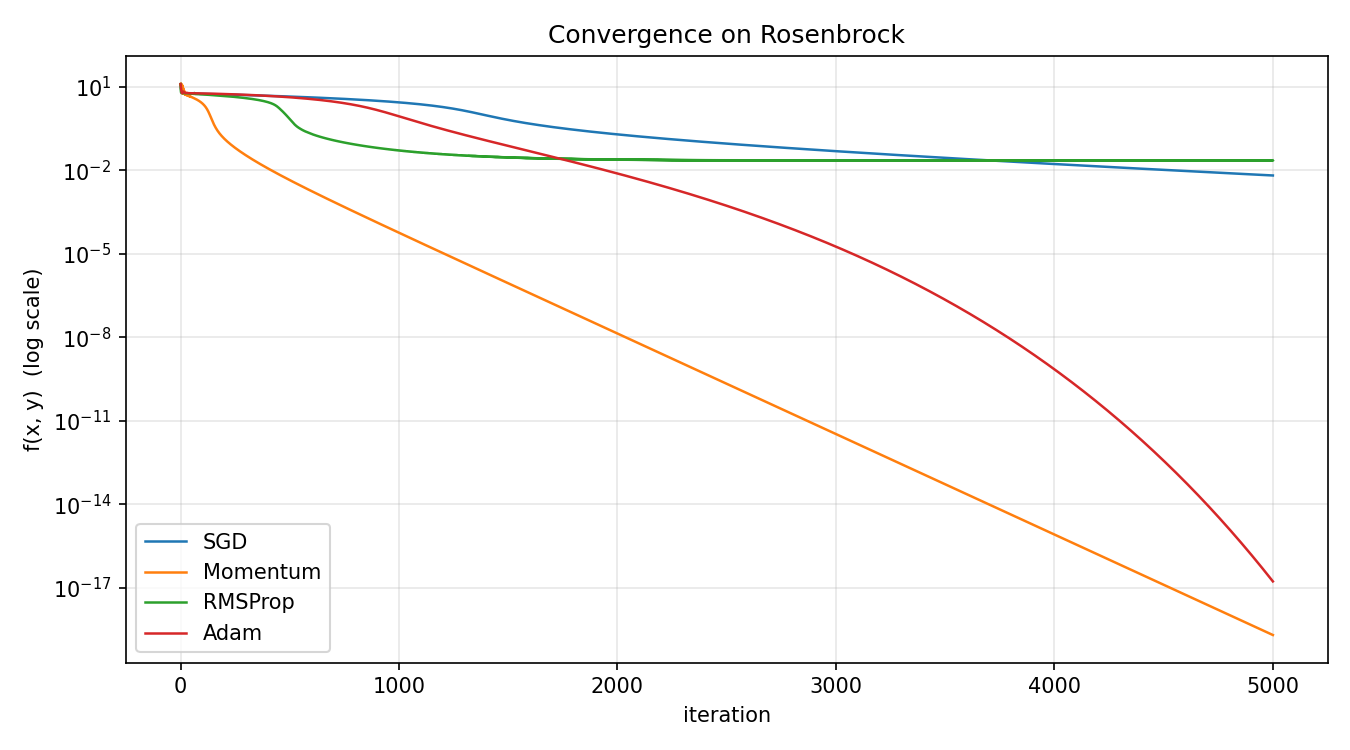
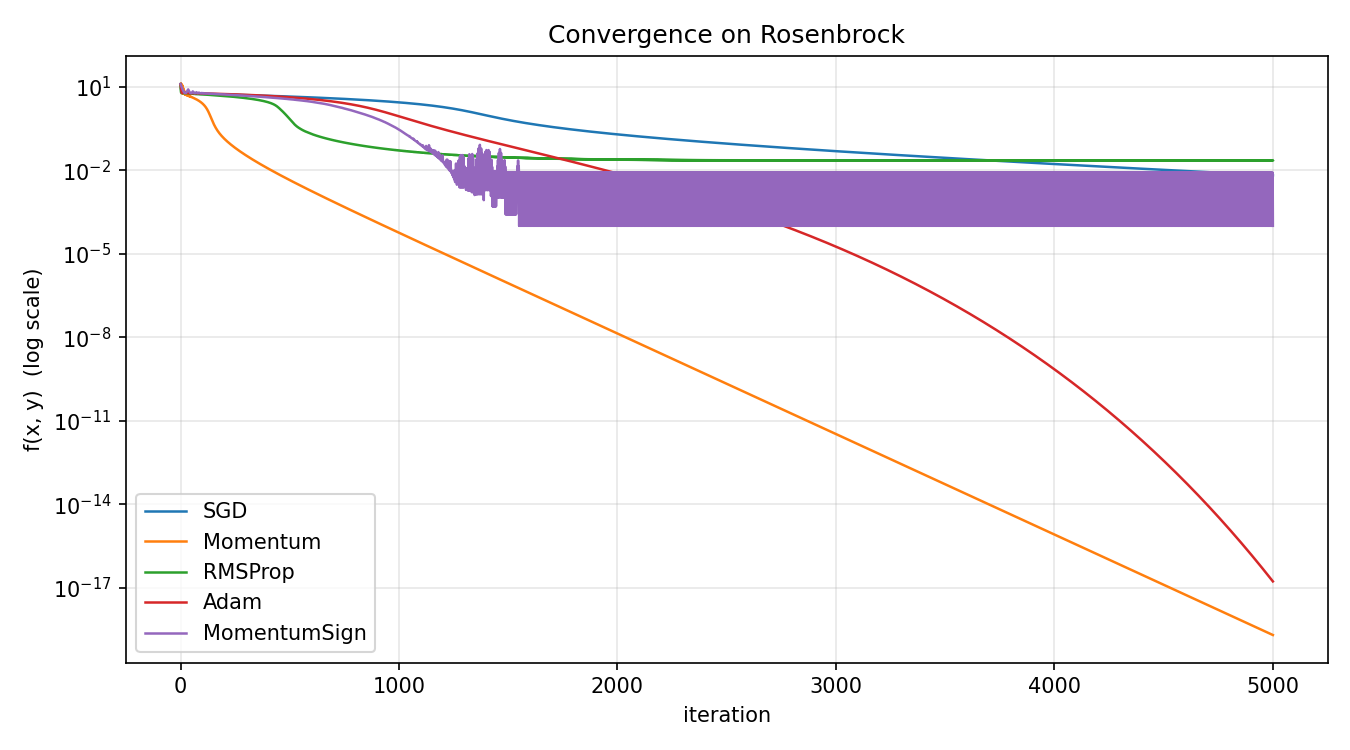
Add sign based optimizer

diff --git a/01_optimizers/reference_optimizers.py b/01_optimizers/reference_optimizers.py
@@ -103,3 +103,34 @@ class Adam(Optimizer):
         m_hat = self.m / (1 - self.beta1**self.t)
         v_hat = self.v / (1 - self.beta2**self.t)
         return m_hat / (np.sqrt(v_hat) + self.eps)
+
+
+class MomentumSign(Optimizer):
+    """Soft-sign of an EMA of gradients (per-coordinate "adjusted direction").
+
+    Direction is `m / (|m| + eps)`, applied componentwise. For |m| >> eps this
+    is sign(m), so far from a minimum the update is axis-aligned with bounded
+    step like Lion. As gradients vanish the denominator stops being dominated
+    by |m| and the update collapses to `m / eps` — proportional to m, which
+    drives step size to zero alongside the gradient. That's the same throttle
+    Adam gets from `sqrt(v_hat) + eps`, and it removes the ±lr noise floor
+    that pure `np.sign` left behind, with no lr schedule needed.
+    """
+
+    def __init__(
+        self,
+        lr: float = 1e-3,
+        beta: float = 0.9,
+        eps: float = 1e-8,
+    ):
+        self.lr = lr
+        self.beta = beta
+        self.eps = eps
+        self.m: np.ndarray | None = None
+
+    def direction(self, grads: np.ndarray) -> np.ndarray:
+        """Returns m / (|m| + eps), where m is an EMA of past gradients."""
+        if self.m is None:
+            self.m = np.zeros_like(grads)
+        self.m = self.beta * self.m + (1 - self.beta) * grads
+        return self.m / (np.abs(self.m) + self.eps)

diff --git a/01_optimizers/benchmark.py b/01_optimizers/benchmark.py
@@ -15,7 +15,7 @@ from __future__ import annotations
 import numpy as np
 import matplotlib.pyplot as plt
 
-from optimizers import SGD, Momentum, RMSProp, Adam
+from reference_optimizers import SGD, Momentum, RMSProp, Adam, MomentumSign
 
 
 A, B = 1.0, 100.0
@@ -54,10 +54,13 @@ def main() -> None:
     # lr Adam prefers, and vice versa. These are hand-tuned to give each
     # method a fair shot from the same starting point.
     runs = {
-        "SGD":      (SGD(lr=1e-3),                        "tab:blue"),
-        "Momentum": (Momentum(lr=1e-3, beta=0.9),         "tab:orange"),
-        "RMSProp":  (RMSProp(lr=1e-2, beta=0.9),          "tab:green"),
-        "Adam":     (Adam(lr=1e-2, beta1=0.9, beta2=0.999), "tab:red"),
+        "SGD":          (SGD(lr=1e-3),                            "tab:blue"),
+        "Momentum":     (Momentum(lr=1e-3, beta=0.9),             "tab:orange"),
+        "RMSProp":      (RMSProp(lr=1e-2, beta=0.9),              "tab:green"),
+        "Adam":         (Adam(lr=1e-2, beta1=0.9, beta2=0.999),   "tab:red"),
+        # Soft sign: m / (|m| + eps). Sign-like far from minima, throttles to
+        # gradient-scaled steps near minima — same trick Adam uses, no lr decay.
+        "MomentumSign": (MomentumSign(lr=3e-3, beta=0.95, eps=1e-8), "tab:purple"),
     }
 
     results = {}
